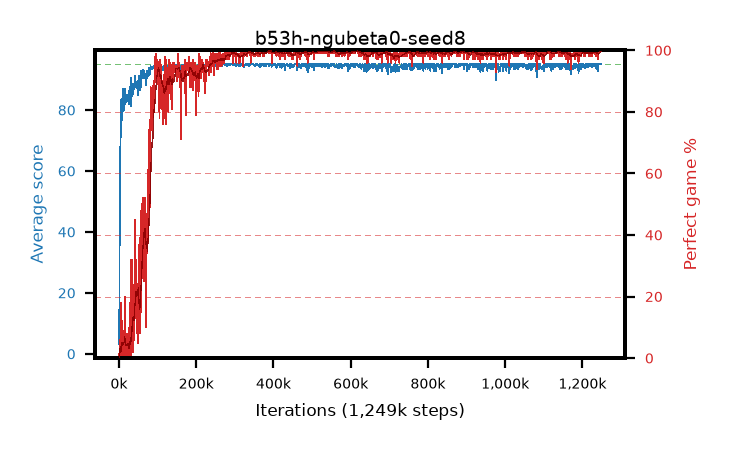
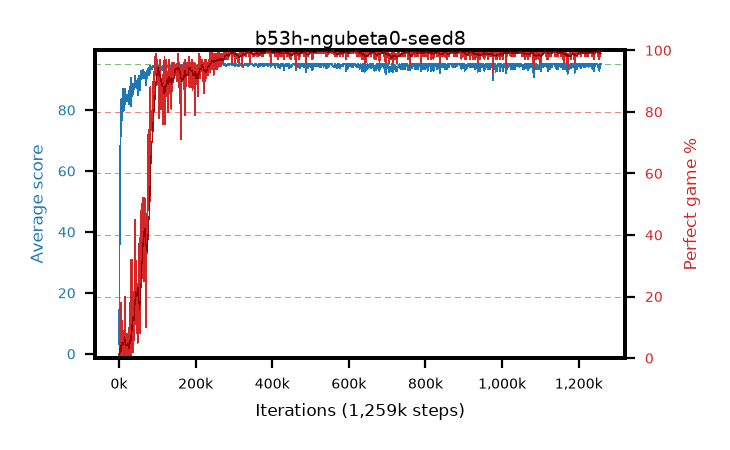
live pictures of 4 arm(s)

diff --git a/results/b53h-ngubeta0-seed8/b53h-ngubeta0-seed8.md b/results/b53h-ngubeta0-seed8/b53h-ngubeta0-seed8.md
@@ -1,6 +1,6 @@
 # b53h-ngubeta0-seed8
 
-step **1,249,000** · 1249 evals · trailing **94.64** · peak **94.92** @356,000 · sef **92.5** · best30 **99.7** @539,000
+step **1,259,000** · 1259 evals · trailing **94.57** · peak **94.92** @356,000 · sef **92.5** · best30 **99.7** @539,000
 
 ## Config
 
@@ -80,15 +80,15 @@ step **1,249,000** · 1249 evals · trailing **94.64** · peak **94.92** @356,00
 | 2000 | 50.19 | 26.7 | 2.0 | 95.0 | 51.185 | 6.0 | 0.4 |
 | 3000 | 57.71 | 37.03 | 27.0 | 95.0 | 54.481 | 2.0 | 0.4 |
 | ... | ... | ... | ... | ... | ... | ... | ... |
-| 1238000 | 95.0 | 94.65 | 95.0 | 95.0 | 193.774 | 100.0 | 0.4 |
-| 1239000 | 94.21 | 94.65 | 16.0 | 95.0 | 191.939 | 99.0 | 0.4 |
-| 1240000 | 92.65 | 94.59 | 11.0 | 95.0 | 188.304 | 97.0 | 0.4 |
-| 1241000 | 94.11 | 94.56 | 6.0 | 95.0 | 191.841 | 99.0 | 0.4 |
-| 1242000 | 95.0 | 94.59 | 95.0 | 95.0 | 193.783 | 100.0 | 0.4 |
-| 1243000 | 95.0 | 94.59 | 95.0 | 95.0 | 193.779 | 100.0 | 0.4 |
-| 1244000 | 95.0 | 94.59 | 95.0 | 95.0 | 193.786 | 100.0 | 0.4 |
-| 1245000 | 95.0 | 94.59 | 95.0 | 95.0 | 193.779 | 100.0 | 0.4 |
-| 1246000 | 95.0 | 94.61 | 95.0 | 95.0 | 193.771 | 100.0 | 0.4 |
-| 1247000 | 95.0 | 94.62 | 95.0 | 95.0 | 193.785 | 100.0 | 0.4 |
 | 1248000 | 95.0 | 94.64 | 95.0 | 95.0 | 193.792 | 100.0 | 0.4 |
 | 1249000 | 95.0 | 94.64 | 95.0 | 95.0 | 193.774 | 100.0 | 0.4 |
+| 1250000 | 94.22 | 94.62 | 17.0 | 95.0 | 191.972 | 99.0 | 0.4 |
+| 1251000 | 94.24 | 94.6 | 22.0 | 95.0 | 190.978 | 98.0 | 0.4 |
+| 1252000 | 94.82 | 94.61 | 77.0 | 95.0 | 192.611 | 99.0 | 0.4 |
+| 1253000 | 94.25 | 94.59 | 20.0 | 95.0 | 191.997 | 99.0 | 0.4 |
+| 1254000 | 92.9 | 94.54 | 17.0 | 95.0 | 188.562 | 97.0 | 0.4 |
+| 1255000 | 95.0 | 94.57 | 95.0 | 95.0 | 193.775 | 100.0 | 0.4 |
+| 1256000 | 94.18 | 94.54 | 16.0 | 95.0 | 190.931 | 98.0 | 0.4 |
+| 1257000 | 95.0 | 94.54 | 95.0 | 95.0 | 193.786 | 100.0 | 0.4 |
+| 1258000 | 95.0 | 94.54 | 95.0 | 95.0 | 193.787 | 100.0 | 0.4 |
+| 1259000 | 95.0 | 94.57 | 95.0 | 95.0 | 193.778 | 100.0 | 0.4 |

diff --git a/results/b53f-ngubeta0-seed6/b53f-ngubeta0-seed6.md b/results/b53f-ngubeta0-seed6/b53f-ngubeta0-seed6.md
@@ -1,6 +1,6 @@
 # b53f-ngubeta0-seed6
 
-step **1,229,000** · 1229 evals · trailing **94.27** · peak **94.99** @323,000 · sef **89.0** · best30 **99.8** @323,000
+step **1,239,000** · 1239 evals · trailing **94.22** · peak **94.99** @323,000 · sef **89.1** · best30 **99.8** @323,000
 
 ## Config
 
@@ -80,15 +80,15 @@ step **1,229,000** · 1229 evals · trailing **94.27** · peak **94.99** @323,00
 | 2000 | 35.17 | 18.16 | 10.0 | 67.0 | 29.965 | 0.0 | 0.4 |
 | 3000 | 47.63 | 27.98 | 1.0 | 93.0 | 42.642 | 0.0 | 0.4 |
 | ... | ... | ... | ... | ... | ... | ... | ... |
-| 1218000 | 95.0 | 94.34 | 95.0 | 95.0 | 193.787 | 100.0 | 0.4 |
-| 1219000 | 94.3 | 94.34 | 25.0 | 95.0 | 192.049 | 99.0 | 0.4 |
-| 1220000 | 94.95 | 94.39 | 90.0 | 95.0 | 192.69 | 99.0 | 0.4 |
-| 1221000 | 94.27 | 94.36 | 22.0 | 95.0 | 192.009 | 99.0 | 0.4 |
-| 1222000 | 95.0 | 94.38 | 95.0 | 95.0 | 193.787 | 100.0 | 0.4 |
-| 1223000 | 93.5 | 94.33 | 17.0 | 95.0 | 190.203 | 98.0 | 0.4 |
-| 1224000 | 92.89 | 94.26 | 22.0 | 95.0 | 188.571 | 97.0 | 0.4 |
-| 1225000 | 94.3 | 94.29 | 25.0 | 95.0 | 192.042 | 99.0 | 0.4 |
-| 1226000 | 92.79 | 94.24 | 18.0 | 95.0 | 188.467 | 97.0 | 0.4 |
-| 1227000 | 95.0 | 94.26 | 95.0 | 95.0 | 193.795 | 100.0 | 0.4 |
 | 1228000 | 93.67 | 94.24 | 21.0 | 95.0 | 190.383 | 98.0 | 0.4 |
 | 1229000 | 95.0 | 94.27 | 95.0 | 95.0 | 193.787 | 100.0 | 0.4 |
+| 1230000 | 94.34 | 94.25 | 29.0 | 95.0 | 192.092 | 99.0 | 0.4 |
+| 1231000 | 94.97 | 94.27 | 92.0 | 95.0 | 192.71 | 99.0 | 0.4 |
+| 1232000 | 93.51 | 94.24 | 18.0 | 95.0 | 190.218 | 98.0 | 0.4 |
+| 1233000 | 94.21 | 94.24 | 16.0 | 95.0 | 191.957 | 99.0 | 0.4 |
+| 1234000 | 95.0 | 94.27 | 95.0 | 95.0 | 193.791 | 100.0 | 0.4 |
+| 1235000 | 93.54 | 94.22 | 20.0 | 95.0 | 190.257 | 98.0 | 0.4 |
+| 1236000 | 95.0 | 94.22 | 95.0 | 95.0 | 193.787 | 100.0 | 0.4 |
+| 1237000 | 95.0 | 94.24 | 95.0 | 95.0 | 193.791 | 100.0 | 0.4 |
+| 1238000 | 94.23 | 94.22 | 18.0 | 95.0 | 191.974 | 99.0 | 0.4 |
+| 1239000 | 95.0 | 94.22 | 95.0 | 95.0 | 193.795 | 100.0 | 0.4 |
